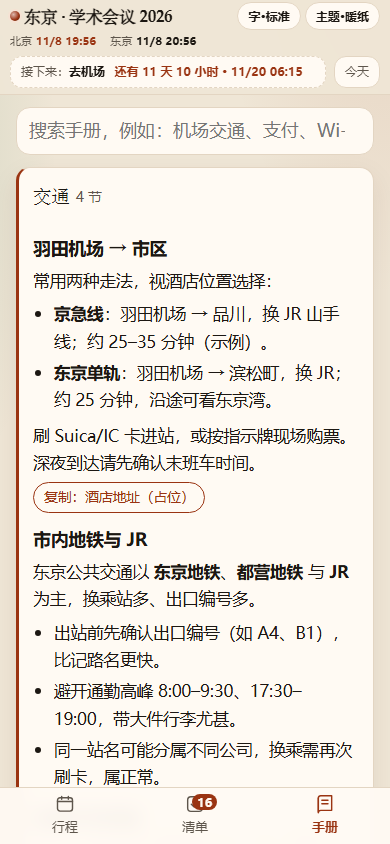
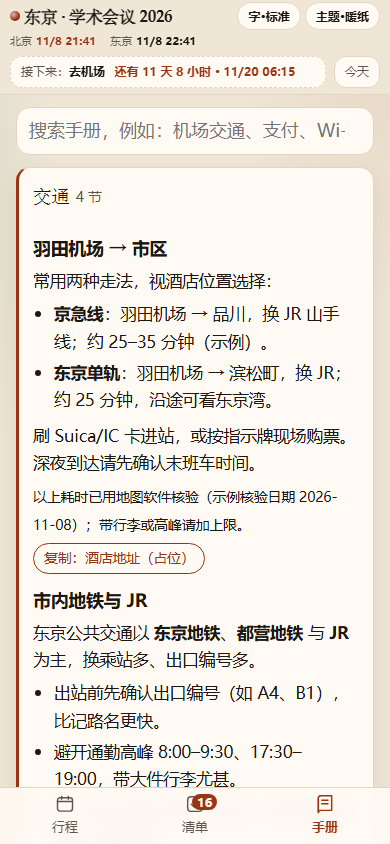
docs: add route/restaurant/hotel verification standards
- 路线必须用地图软件核验：时间区间/末班车/步行距离 + 核验日期
- 餐厅：平台评分 + 小红书真实体验（个人体验，待核实）+ 必须确认能否预约
- 住宿：先定优先级（效率/夜间生活/报销/预算），验通勤、夜间便利、发票与报销条件
- 示例数据补充住宿事件与「住宿」手册章；README 特性同步

diff --git a/skills/trip-cheat-sheet/references/content-guide.md b/skills/trip-cheat-sheet/references/content-guide.md
@@ -100,6 +100,61 @@
 - 每天最多 **2–3 个硬事项**（必须按时发生的），其余是软事项（可跳过/可调整）。
 - 时间线不能重叠；`events` 按时间先后写（渲染器会再排序，但源文件保持可读）。
 
+### 2.5 路线、餐厅、住宿：三个必须验证的选择
+
+这三件事最容易「看起来合理、到现场翻车」。写进行程前先验证，验证结果写进 `detail` 与 `links`，并注明核查日期。
+
+#### 2.5.1 路线：用地图软件核验，不靠攻略估
+
+| 核验什么 | 怎么核验 | 写法示例 |
+|---|---|---|
+| 交通方式与耗时 | Google Maps / 高德 / 腾讯地图（国内）；当地交通运营方官网/App（轨道、机场巴士）；步行距离用「步行」模式 | 「地铁 X 线 → Y 站换乘，约 35–45 分钟（地图核验于 2026-11-08）」 |
+| 末班车/首班车 | 运营方官网或站内时刻表；夜间到达必须查 | 「末班车 00:20；若晚于 23:30 到达建议打车」 |
+| 换乘与步行 | 换乘次数、站内步行、出口编号、电梯/无障碍 | 「Y 站 3 号出口步行 6 分钟」 |
+| 实时波动 | 高峰、雨天、施工、罢工；给区间不给单点 | 「约 30–50 分钟，早晚高峰取上限」 |
+
+- 地图软件给的是**平峰估算**：带行李、带老人小孩、语言不通时再加 30–50% 余量（见 §2.3）。
+- 跨城、国际航班、机场接驳以**运营方官方**为准，地图可能只给「驾车」方案。
+- **没核验就标「待核实」**，不要直接抄攻略里的「大约 20 分钟」；核验日期写进 `detail` 或 `meta.footer`。
+- `map.mode` 与实际推荐方式保持一致（步行/公交/驾车），页面会按它生成地图深链。
+
+#### 2.5.2 餐厅：评分 + 小红书 + 能不能订
+
+三源交叉，缺一不可：
+
+| 来源 | 看什么 | 可信度 |
+|---|---|---|
+| 平台评分 | 大众点评 / Google / 食べログ / OpenTable 的分数、评价数、**最近评价** | 参考（可能有刷分/过时） |
+| 小红书 / 社区 | 真实体验、排队、点单、踩坑、最新变化 | **个人体验，待核实**；不能当唯一证据 |
+| 官方 / 预订页 | 营业时间、休息日、**能否预约**、预约渠道、取消规则、着装 | 已确认（记录核查日期） |
+
+- **必须确认能否预约**：能预约的写预约方式（官网/电话/平台）与建议时间；不能预约的写排队规则和建议到达时间；约不上的热门店给备选。
+- 人均、必点、忌口/过敏、着装（是否需正装）写进 `detail`；预约名/号码放 `copy` 占位符。
+- 引用小红书要标「个人体验」并附来源链接，避免「全网都说」「必吃」这类表述。
+- 营业信息会变：写核查日期，并在 `meta.footer` 提醒出行前复核。
+
+#### 2.5.3 住宿：先定优先级，再验三件事
+
+先和用户确认优先级，再选酒店：
+
+1. **效率优先**：离会场/核心景点近（步行或 1–2 站），减少每天通勤；
+2. **夜间生活优先**：晚上逛街、吃饭、便利店/药妆方便，回酒店安全；
+3. **报销合规优先**：公差住宿标准、发票类型、是否必须协议价/公司渠道；
+4. **预算优先**：在上述约束内选性价比。
+
+验证清单：
+
+| 维度 | 要核验 | 写入位置 |
+|---|---|---|
+| 通勤 | 到会场/景点的步行/地铁耗时、末班车、雨天方案 | 入住事件 `detail` + `map` |
+| 夜间生活 | 周边餐饮/便利店/药妆/购物营业到几点；夜间步行安全 | `detail` 或 `handbook`「住宿」章 |
+| 报销 | 能否开票（增值税发票/收据/水单）、抬头税号、住宿标准上限、预授权/押金、退改政策 | `checklists`（发票/押金）+ `handbook`「住宿」章 |
+| 入住细节 | 入住/退房时间、早餐、行李寄存、Wi-Fi、床型/无烟房 | `detail` + `copy` |
+
+- `detail` 里写一句**决策记录**：「选这里因为离会场步行 10–15 分钟、晚上银座吃饭购物方便；放弃了更便宜的郊区酒店（每天多 40 分钟通勤）。」
+- 报销写进清单：退房前确认发票、保留水单、拍照归档（见 `handbook`「住宿」章示例）。
+- 需要用户确认的：公司差旅标准/发票抬头税号/是否必须走公司订房渠道——不要替用户假设。
+
 ## 3. 双时区与跨日写法
 
 ### 3.1 基本规则
@@ -165,11 +220,12 @@
 - 不要写百科式背景介绍；把「为什么」压缩成一句，重点写「怎么做」。
 - 电话、地址、营业时间这类会变的信息，标注来源与核查日期。
 
-### 5.1 章节清单（默认 7 章）
+### 5.1 章节清单（默认 8 章）
 
 | 章节 id | 标题 | 至少包含 | 常见 `copy` 字段 |
 |---|---|---|---|
 | `transport` | 交通 | 机场 ↔ 市区（各方式+末班车）、市内交通、交通卡/票券、打车注意 | 酒店地址、车站名 |
+| `stay` | 住宿 | 入住/退房时间、早餐、行李寄存、Wi-Fi、**发票与报销**、押金/预授权、退改政策、周边夜间便利 | 酒店地址（当地文字）、确认号占位、前台电话 |
 | `network` | 网络与通讯 | eSIM/漫游/当地卡、免费 Wi-Fi、常用 App、紧急联系人 | 酒店 Wi-Fi 密码占位、领保电话 |
 | `payment` | 支付与货币 | 卡组织覆盖、现金/ATM、移动支付、小费/退税 | 酒店电话、卡挂失电话 |
 | `safety` | 安全与应急 | 报警/急救/火警电话、医院/药店、使馆与领事保护、丢证件处理 | 使馆地址电话、保险救援电话 |
@@ -199,6 +255,8 @@
 3. `meta.footer` 统一写数据截止日期与复核提醒，例：「内容截至 2026-11-10，出行前请复核航班、预约与营业时间」。
 4. 用词统一，不要混用「据说」「应该」「大概」「可能」。
 5. 「已确认」必须有来源（链接或用户原文），不能凭印象写。
+6. **小红书/攻略/社区评价 = 个人体验**：写「个人体验」或「待核实」，不能当作「已确认」；餐厅/酒店的**预约状态只以官方或预订渠道为准**，并写上核查日期。
+7. 平台评分只能作参考（可能刷分/过时）；引用时给平台与评价数，例如「Google 4.3★（88 条评价，2026-11-08 查）」。
 
 ## 7. 调研优先级与常见坑
 
@@ -212,6 +270,8 @@
 
 调研顺序建议：先用官方页面确认 P0 → 再查 P1 的官方规则（预约、末班车、换乘）→ 最后补 P2。
 每条结论记下来源 URL 和核查日期，直接写进 `links` 或 `meta.footer`。
+
+住宿、餐厅、路线这三类候选按 **§2.5** 做三源验证：路线用地图软件核验；餐厅看平台评分 + 小红书 + 官方预约渠道；住宿核对通勤、夜间便利与报销条件。攻略类内容只能当线索，不能当结论。
 
 ### 7.2 常见坑（逐项写进手册或事件的 `detail`）
 
@@ -268,6 +328,12 @@
 - 地址给司机看当地文字版本；菜单/门票截图；基础问候语。
 - 紧急时找「i」信息台、车站工作人员、酒店前台，比问路人更可靠。
 
+**路线、餐厅与住宿**
+
+- 路线必须用地图软件核验，写清时间区间、末班车、步行距离，并标核验日期（§2.5.1）；不要直接抄攻略里的「约 20 分钟」。
+- 餐厅必须确认评分来源、能否预约、排队规则、休息日与取消规则（§2.5.2）；小红书只能作个人体验参考。
+- 住宿必须核对通勤、夜间生活便利、报销/发票/押金要求，写清选择理由与放弃项（§2.5.3）。
+
 ## 8. 隐私与红线
 
 - **不写真实票码/二维码/PNR/证件号/手机号/门牌号/他人姓名**进即将公开的页面。
@@ -289,12 +355,15 @@
 7. `meta.startDate ≤ 每个 day.date ≤ meta.endDate`；`days` 覆盖全程无断档。
 8. 所有 `tz` 是 IANA 名称，不是偏移或缩写。
 9. `checklists` 的 `id` 全局唯一，`checkId` 都能在清单里找到对应项。
-10. `handbook` 的 `html` 只用白名单标签；7 章齐全（交通/网络/支付/安全/参会/饮食/打包）。
+10. `handbook` 的 `html` 只用白名单标签；8 章齐全（交通/住宿/网络/支付/安全/参会/饮食/打包）。
 11. `tickets` 的 `qr` 只指向占位图；`person` 能区分同行人。
 12. `copy` 字段无真实敏感信息。
 13. 手机竖屏读一遍：一屏内能看懂「下一步」。
 14. `meta.footer` 写了数据截止日期与复核提醒。
 15. `verify.mjs` 零错误；警告要么修掉，要么能解释。
+16. 路线用地图软件核验过，写清时间区间/末班车/步行距离与核验日期（§2.5.1）。
+17. 餐厅评分有来源、预约/排队/休息日已确认；小红书引用标了「个人体验」。
+18. 住宿写了选址理由（效率/夜间生活/报销/预算）、通勤方案、报销/发票/押金要求；清单里有对应提醒。
 
 ## 10. 延伸阅读
 

diff --git a/skills/trip-cheat-sheet/SKILL.md b/skills/trip-cheat-sheet/SKILL.md
@@ -48,6 +48,9 @@ compatibility: Requires Node.js 18+ (ESM + full IANA timezone data via Intl). Bu
 - 哪些已订、哪些待订（航班、酒店、会议注册、门票、餐厅）
 - 会议/活动的关键时间（注册、开幕、自己的报告/海报时段、晚宴）
 - 偏好与红线（预算、饮食忌口/过敏、节奏强度、想放弃什么）
+- **住宿取向**：愿意住会场/行程点附近（省通勤、效率优先），还是住晚上逛街吃饭方便的地方（生活半径优先）？两者冲突时以哪个为准？
+- **公差与报销**：是否可报销、住宿标准上限、需要什么发票（增值税发票/收据/水单）、抬头与税号、是否要求协议价/公司渠道/预授权——这会直接改变酒店选择。
+- **餐饮**：想吃什么、能否接受排队、是否愿意提前订位（决定推荐时是否优先可预约的店）。
 - 隐私要求（是否公开分享、是否需要密码门、哪些信息不能上网）
 
 收集材料：截图、PDF、邮件、聊天记录、链接都行。**先整理成事实清单再动手写 JSON**，不要边收集边猜。
@@ -67,6 +70,18 @@ compatibility: Requires Node.js 18+ (ESM + full IANA timezone data via Intl). Bu
 - 不要编造价格、班次、开放时间、预约状态；查不到就写「待核实」并给「以官方为准」的兜底。
 - 常见坑（机场交通、门票预约、Wi-Fi、支付、紧急电话、时区/DST）逐项核对，写进手册或事件说明。
 
+#### 三条必须验证的选择：路线、餐厅、住宿
+
+| 对象 | 必须做的验证 | 写进 `trip.json` 的位置 |
+|---|---|---|
+| **游玩/转场路线** | 用**地图软件**（Google/高德/腾讯/当地交通官方）核验方式与耗时，不靠攻略估；写清步行距离、换乘、末班车；记录核验日期 | `detail`（「约 X 分钟，地图核验于 YYYY-MM-DD」）+ `map.mode` |
+| **餐厅** | **平台评分 + 小红书真实体验**交叉参考（小红书只作个人体验参考，不能当唯一证据）；必须确认**能否预约、怎么预约、排队规则、休息日/营业时间**；人均与着装写清 | `detail` + `links`（官方/预订页）；预约状态按 §6 标注 |
+| **住宿** | ① 到会场/行程点的**通勤**（步行/地铁耗时、末班车、雨天方案）② **晚上生活半径**（餐饮/购物/便利店/安全）③ **报销合规**（发票类型、抬头税号、住宿标准、预授权/押金、退改）④ 预算 | `detail`（选择理由 + 放弃项）、`handbook` 的「住宿」章、`checklists`（发票/押金提醒） |
+
+- 拒绝「攻略说大约 20 分钟」这类无来源写法：要么给核验日期与来源，要么标「待核实」。
+- 餐厅信息分三档：平台评分（参考）、小红书/朋友（个人体验，待核实）、官方/预订渠道（营业/预约以它为准）。
+- 住宿先定优先级再选：**效率（近会场）> 夜间生活（热闹便利）> 报销合规 > 预算**（顺序由用户确认）；`detail` 里写「选这是因为…；放弃了…」。
+
 ### 第 3 步：写 `trip.json`
 
 严格按 [`references/trip-schema.md`](references/trip-schema.md) 写；可直接参考示例
@@ -76,7 +91,7 @@ compatibility: Requires Node.js 18+ (ESM + full IANA timezone data via Intl). Bu
 - `destinations`：每个目的地一个 `id` + IANA 时区（如 `Asia/Tokyo`）。
 - `days[].events`：每条事件至少写 `time` / `title` / `short` / `detail` / `kind`；有地点的写 `location` + `map`；有官方链接的写 `links`；能关联清单的写 `checkId`。
 - `checklists`：按阶段分组（出发前 / 落地后 / 期间 / 返程前），`id` 全局唯一。
-- `handbook`：交通、网络、支付、安全应急、参会、饮食、打包等章节（可合并/增补，主题别漏）。
+- `handbook`：交通、**住宿**、网络、支付、安全应急、参会、饮食、打包等章节（住宿章写入住/退房/发票报销/行李寄存；可合并/增补，主题别漏）。
 - `tickets`：每人一张，`qr` 指向占位图或用户自备图片（**不要提交真实票码**）。
 
 **双时区规则（最容易错）**
@@ -183,6 +198,7 @@ Agent：
 5. **不承诺能力**：不承诺实时库存/预订/值机；下单、付款、退改等不可逆操作交给用户，不替用户执行。
 6. **交付前必跑校验**：`verify.mjs --strict` 零错误再交付；部署前再确认没有敏感信息。
 7. **说明边界**：密码门是熟人分享级保护，不是加密；要真安全用私有托管/访问控制。
+8. **路线/餐厅/住宿必须验证**：路线用地图软件核验并写时间区间与核验日期；餐厅参考平台评分 + 小红书真实体验，并确认能否预约、怎么预约；住宿写清通勤、夜间生活便利与报销条件。小红书/攻略只作个人体验参考，不能替代官方预约与评分。
 
 ## 单文件 vs 多文件怎么选
 

diff --git a/README.md b/README.md
@@ -37,6 +37,7 @@ TripCheat 是一个开源的 [Agent Skill](https://agentskills.io)：装进 Clau
 - **地图深链**：按 `meta.mapProvider` 生成 Google / 高德 / Apple 地图链接（Google 路线链接带出行方式参数）。
 - **清单**：勾选状态只存本机浏览器（localStorage），不上传；`copy` 字段一键复制地址、预约号、电话。
 - **手册**：支持搜索，HTML 白名单清洗，适合写「怎么走 / 怎么付 / 出问题找谁」。
+- **调研有标准**：路线必须用地图软件核验（时间区间、末班车、步行距离）；餐厅参考平台评分 + 小红书真实体验（只作个人体验）并确认能否预约；住宿写清通勤、夜间生活便利与报销（发票/标准/押金）条件，以及选址取舍。
 - **主题与字号**：paper（暖纸）/ slate（冷灰）/ night（夜间）三种主题，小/标准/大/特大四种字号，默认跟随系统深色模式。
 - **PWA**：可加到手机主屏（`--no-pwa` 可关闭）。
 - **密码门**：`--gate-password` 前端 SHA-256 校验 + 本机记忆，熟人分享级保护（边界见 [deploy.md](skills/trip-cheat-sheet/references/deploy.md)）。
@@ -214,6 +215,7 @@ trip-cheat-sheet-skill/
 - Dual timezone: destination clocks plus home clocks, per-event conversions; flight, transit and cross-day handling.
 - Single-file HTML (default) or multi-page static site (`--multi`) with per-person `ticket-<id>.html` pages.
 - QR ticket pages, map deep links (Google / Amap / Apple), one-tap copy fields, checklist state saved in `localStorage`.
+- **Research standards**: routes verified with map apps (time ranges, last trains, walking distances); restaurants cross-checked with platform ratings + Xiaohongshu real experiences (personal experience only) and confirmed for reservation availability; hotels justified by commute, nightlife/shopping access, and reimbursement rules (invoice type, cap, deposit).
 - Themes (paper / slate / night), font size switch, PWA install, optional password gate.
 - Data contract + validator; zero backend; pure static output.
 - Example data is fictional and sanitized; QR images in the repo are placeholders only.
